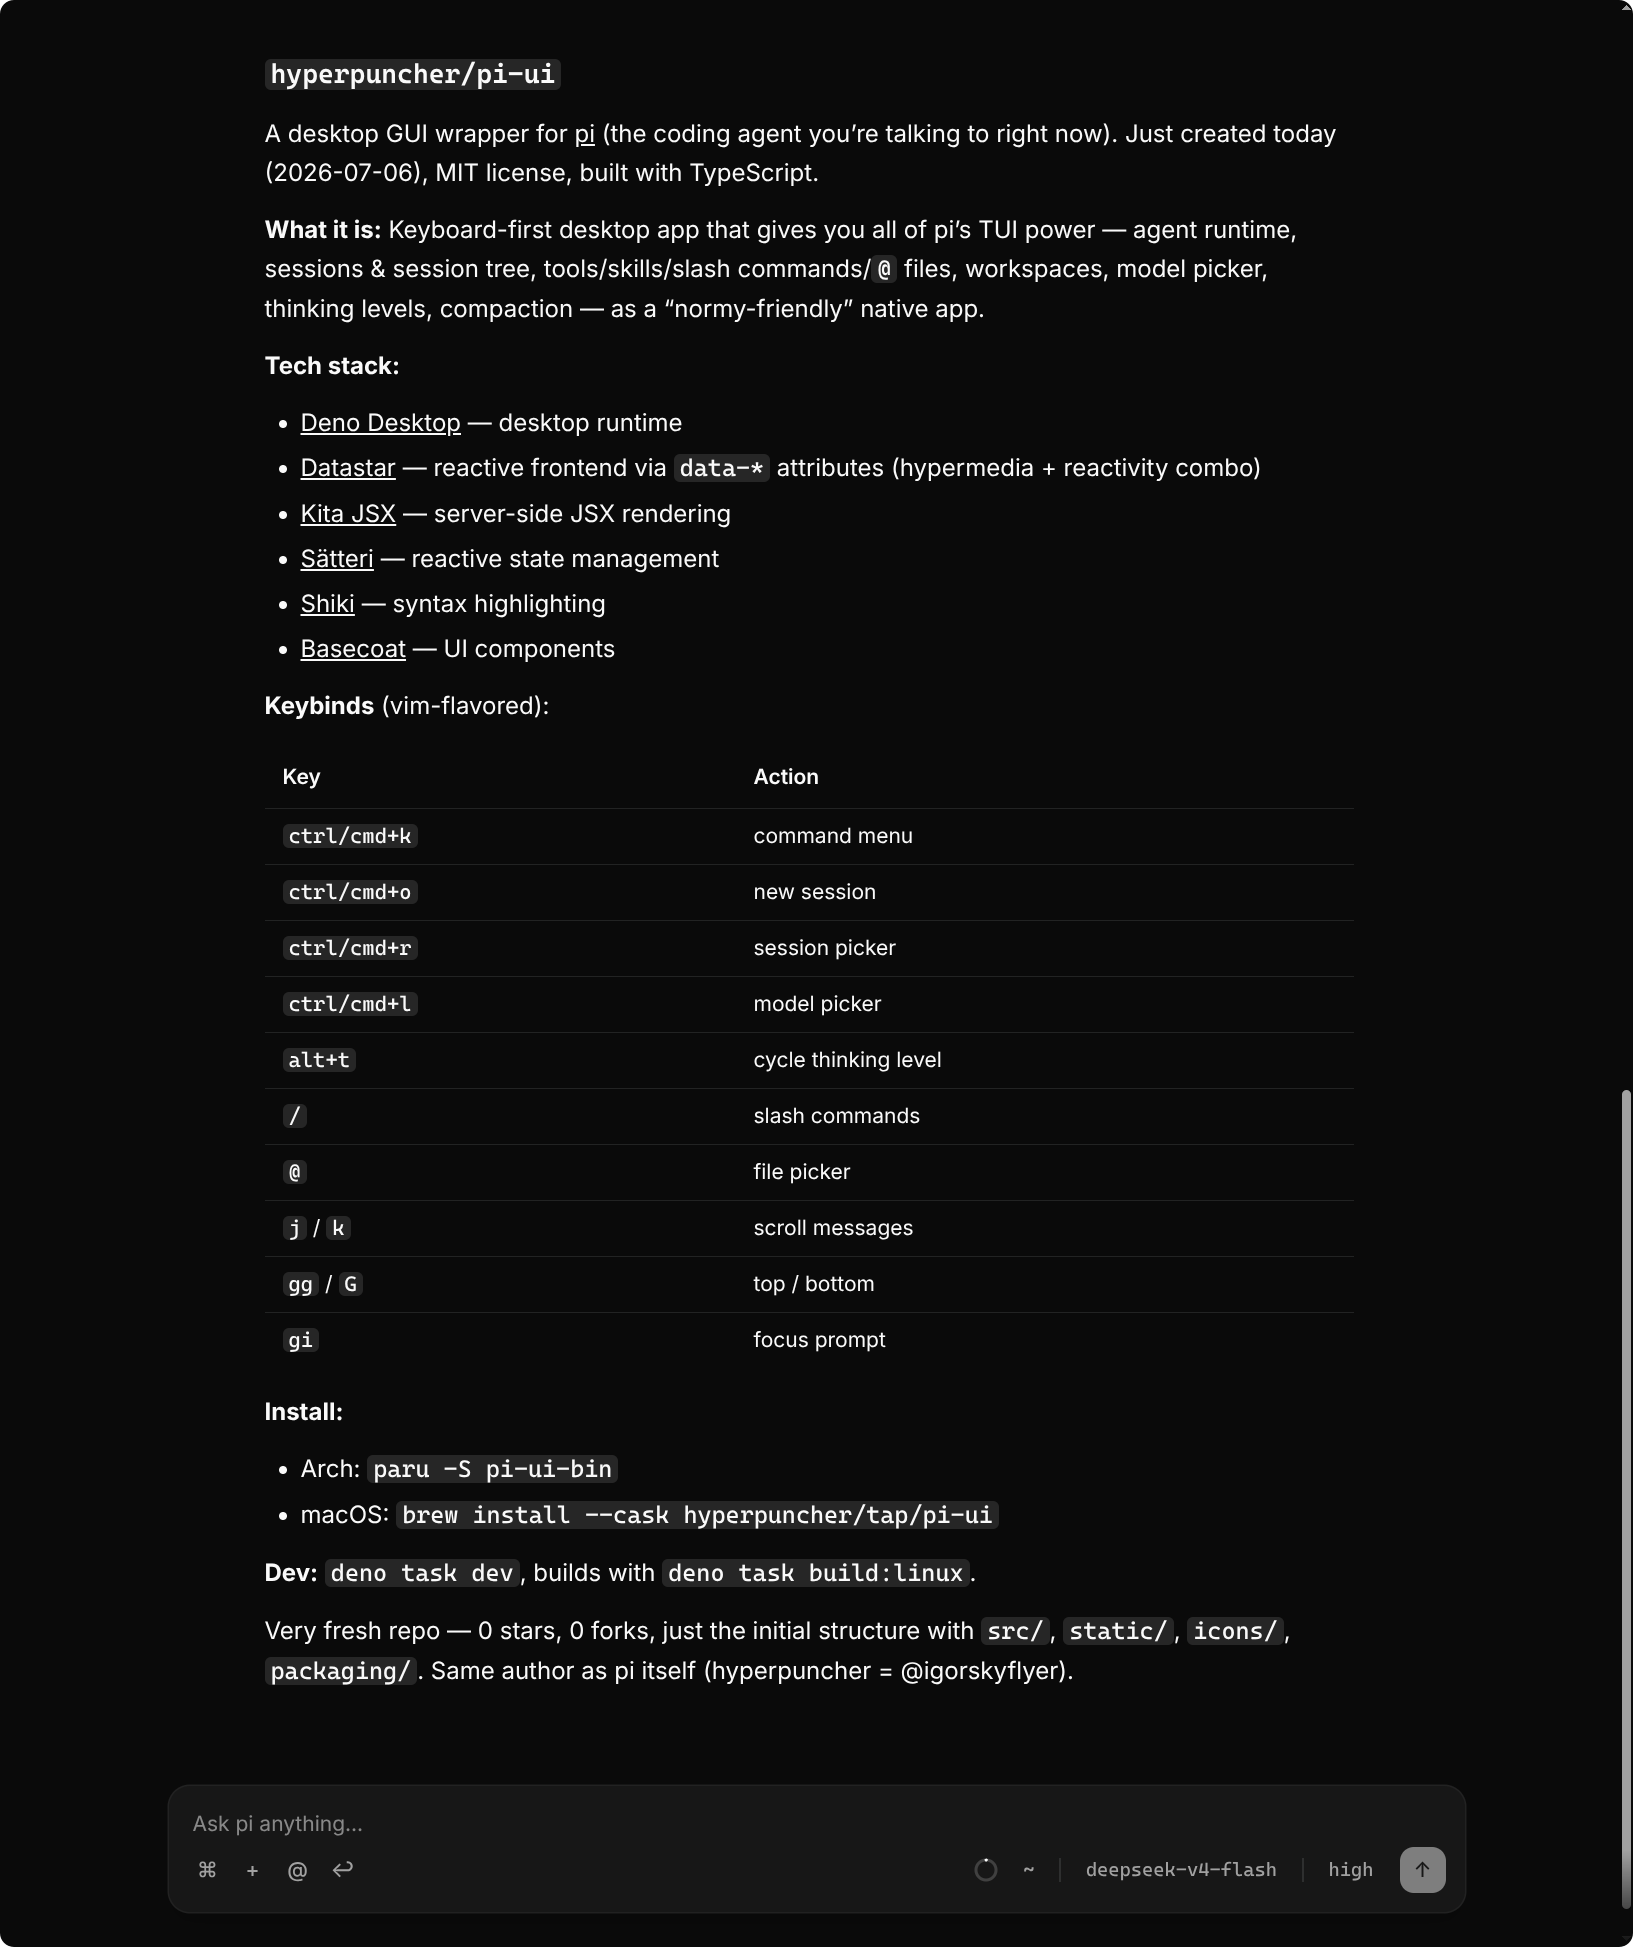
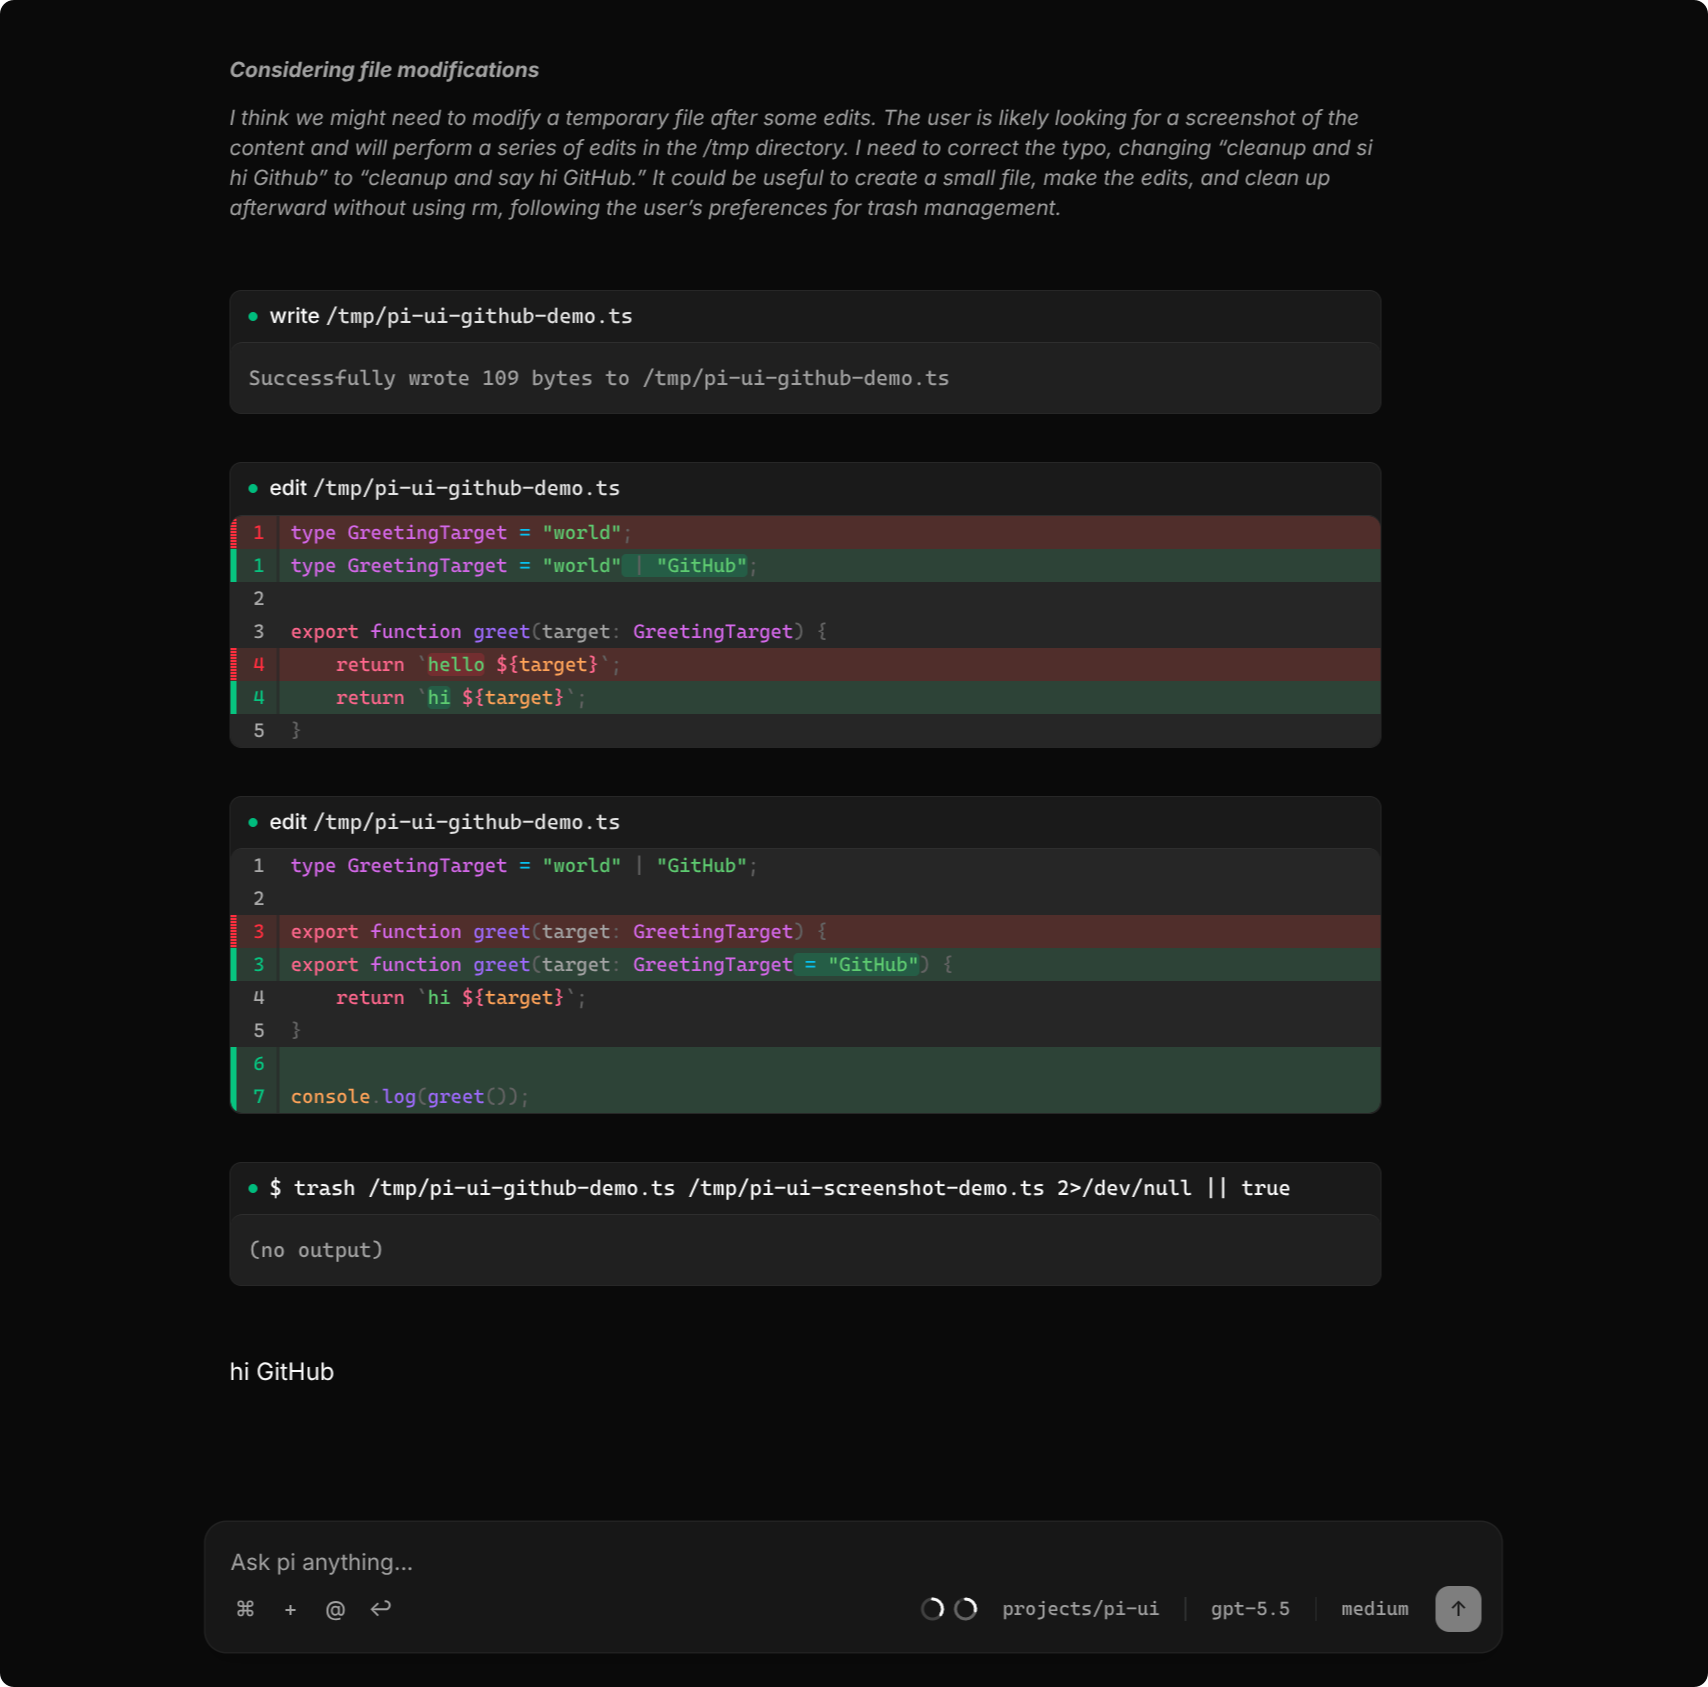
docs: update readme and screenshots

diff --git a/README.md b/README.md
@@ -16,11 +16,8 @@ keyboard-first desktop gui for [pi](https://pi.dev).
 	</picture>
 </div>
 
-same power as the pi tui, packaged as a normy-friendly desktop app:
-
-- agent runtime, sessions, and session tree
-- tools, skills, slash commands, and `@` files
-- workspaces, models, thinking levels, and compaction
+feature parity with the pi tui, plus desktop niceties like background sessions,
+native notifications, file paste/drop, and rich code/diff rendering.
 
 built with:
 
@@ -28,7 +25,7 @@ built with:
 - [datastar](https://data-star.dev/)
 - [kita jsx](https://github.com/kitajs/html)
 - [sätteri](https://github.com/bruits/satteri)
-- [shiki](https://shiki.style/)
+- [pierre](https://github.com/pierre-codes/pierre)
 - [basecoat](https://basecoatui.com/)
 
 ## install
@@ -56,6 +53,8 @@ brew install --cask hyperpuncher/tap/pi-ui
 | `alt+t`      | cycle thinking level |
 | `/`          | slash commands       |
 | `@`          | file picker          |
+| `alt+enter`  | queue follow-up      |
+| `alt+↑`      | restore queued text  |
 | `j` / `k`    | scroll messages      |
 | `gg` / `G`   | top / bottom         |
 | `gi`         | focus prompt         |